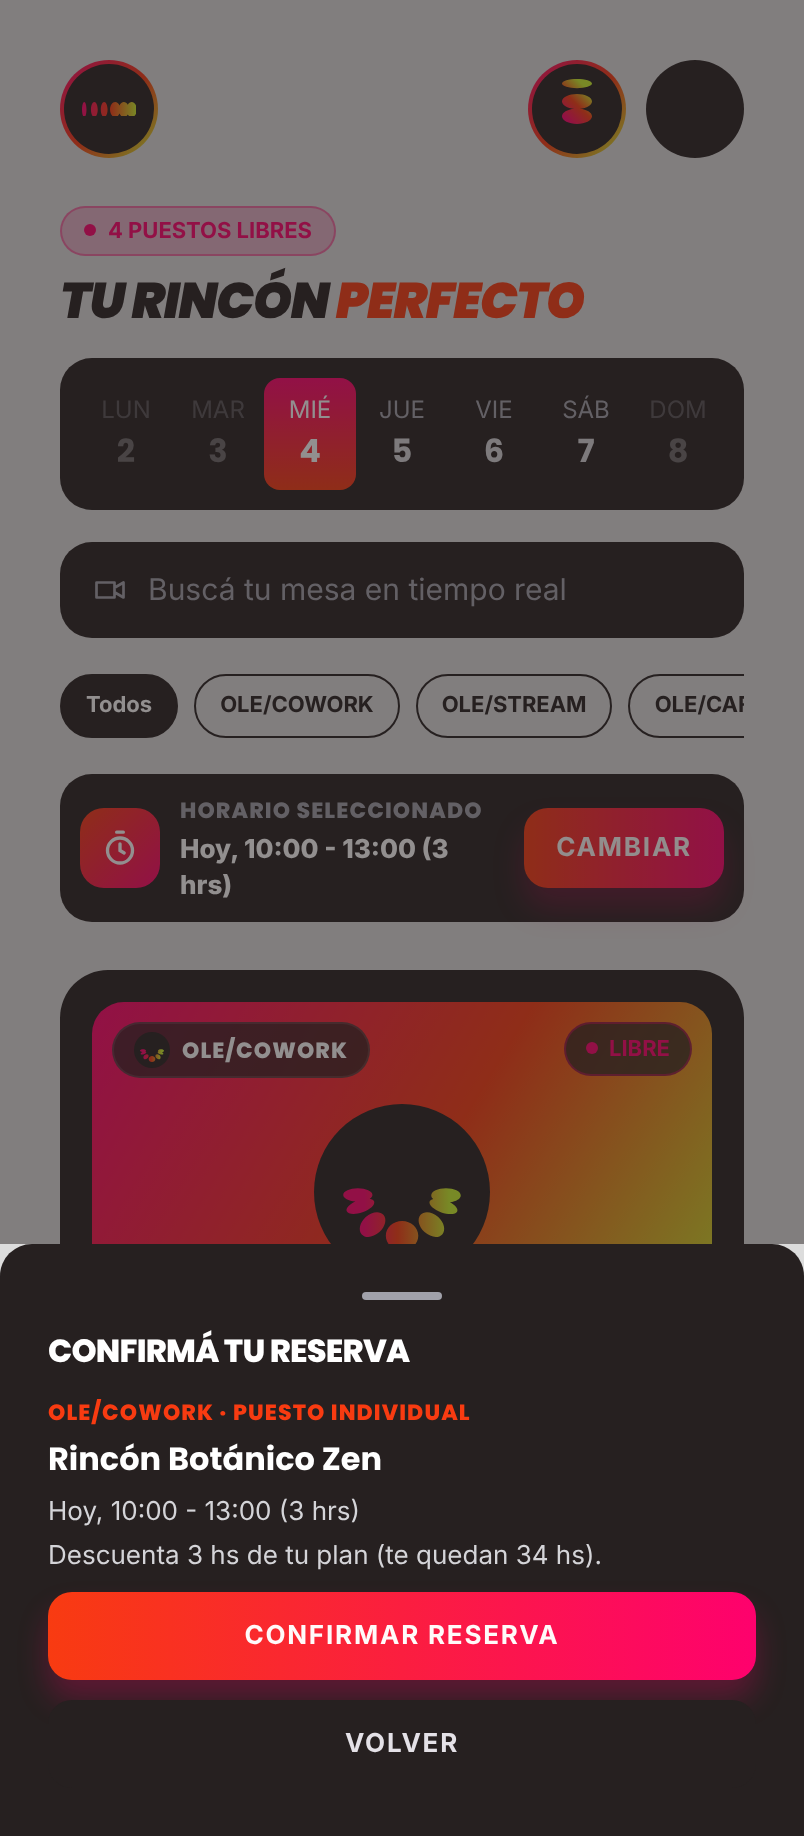
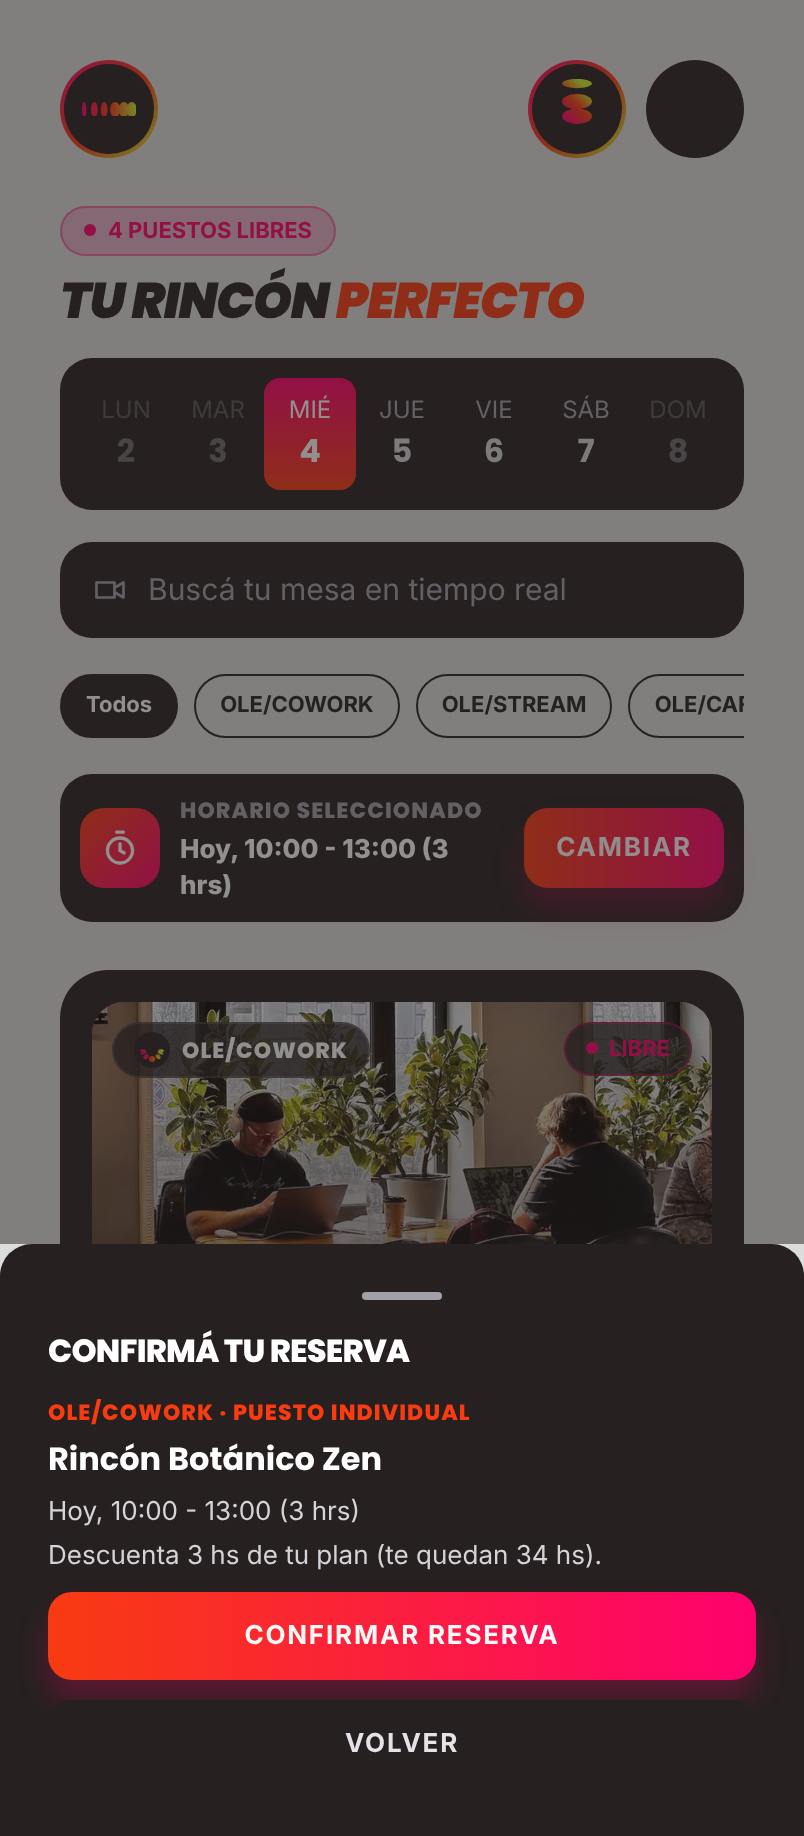
Etapa 8 — Espacios (revisión 1: fotos de los espacios)
Fotos reales provistas por la responsable para Rincón Botánico Zen, Mesa
Comunitaria y Sala Acústica, con sombra inferior para leer las etiquetas.

Claude-Session: https://claude.ai/code/session_0116dvceVdoahqryjdDfmCBu

Changed region(s): [[0.0933, 0.5278, 0.9017, 0.683]]

diff --git a/src/components/espacios/TarjetaEspacio.tsx b/src/components/espacios/TarjetaEspacio.tsx
@@ -1,5 +1,5 @@
 import { LinearGradient } from 'expo-linear-gradient';
-import { Pressable, StyleSheet, View } from 'react-native';
+import { Image, Pressable, StyleSheet, View } from 'react-native';
 
 import { IconoUbicacion } from '@/components/iconos/Iconos';
 import { IconoSubmarca } from '@/components/marca/IconoSubmarca';
@@ -30,8 +30,8 @@ function textoEstado(estado: EstadoEspacio): string {
   return `Ocupado hasta ${estado.hasta}`;
 }
 
-// Tarjeta de espacio (Figma: ESPACIOS). PROVISIONAL: sin fotos reales de los espacios, la imagen es el
-// degradado de marca con el ícono del servicio (como la miniatura de la reserva del Home).
+// Tarjeta de espacio (Figma: ESPACIOS). Muestra la foto del espacio; si no tiene, el degradado de marca
+// con el ícono del servicio (como la miniatura de la reserva del Home).
 export function TarjetaEspacio({ espacio: datos, estado, accion }: Props) {
   const estiloEstado = ESTILO_ESTADO[estado.tipo];
   return (
@@ -43,7 +43,25 @@ export function TarjetaEspacio({ espacio: datos, estado, accion }: Props) {
         end={{ x: 1, y: 1 }}
         style={styles.imagen}
       >
-        <IconoSubmarca submarca={datos.servicio} tamano={88} conAro={false} />
+        {datos.foto ? (
+          <>
+            <Image
+              source={datos.foto}
+              resizeMode="cover"
+              accessibilityIgnoresInvertColors
+              style={styles.foto}
+            />
+            {/* Sombra abajo para que las etiquetas se lean sobre cualquier foto. */}
+            <LinearGradient
+              colors={[colores.transparente, colores.veloFoto]}
+              start={{ x: 0.5, y: 0.45 }}
+              end={{ x: 0.5, y: 1 }}
+              style={StyleSheet.absoluteFill}
+            />
+          </>
+        ) : (
+          <IconoSubmarca submarca={datos.servicio} tamano={88} conAro={false} />
+        )}
         <View style={[styles.pastilla, styles.arribaIzquierda]}>
           <IconoSubmarca submarca={datos.servicio} tamano={18} conAro={false} />
           <Texto variante="categoria" color="textoSobreOscuro">
@@ -156,6 +174,8 @@ const styles = StyleSheet.create({
     borderColor: colores.divisorSobreOscuro,
     backgroundColor: colores.fondoPastillaFoto,
   },
+  // Tamaño explícito: en la web, absoluteFill solo no escala la imagen.
+  foto: { position: 'absolute', top: 0, left: 0, width: '100%', height: '100%' },
   arribaIzquierda: { position: 'absolute', top: espacio.l, left: espacio.l },
   arribaDerecha: { position: 'absolute', top: espacio.l, right: espacio.l },
   punto: { width: 6, height: 6, borderRadius: radios.pastilla },

diff --git a/data/mock/espaciosOlegario.ts b/data/mock/espaciosOlegario.ts
@@ -2,6 +2,7 @@ import type { Espacio } from '../../src/models/espacio';
 
 // DATOS DE PRUEBA (no reales): espacios y ocupación tomados de Figma (pantalla ESPACIOS), hasta el
 // servidor (Etapa 13). Las ocupaciones son relativas al día en que se abre la app.
+// Fotos provistas por la responsable (Drive, 2026-11-04); la Mesa con Luz Natural todavía no tiene.
 export function espaciosDePrueba(hoy: Date = new Date()): Espacio[] {
   const a = (hora: number, minuto = 0, dias = 0) => {
     const fecha = new Date(hoy);
@@ -12,6 +13,7 @@ export function espaciosDePrueba(hoy: Date = new Date()): Espacio[] {
   return [
     {
       id: 'rincon-botanico-zen',
+      foto: require('../../assets/imagenes/espacios/rincon-botanico-zen.jpg'),
       servicio: 'cowork',
       nombre: 'Rincón Botánico Zen',
       tipo: 'Puesto individual',
@@ -34,6 +36,7 @@ export function espaciosDePrueba(hoy: Date = new Date()): Espacio[] {
     },
     {
       id: 'mesa-comunitaria-cafe',
+      foto: require('../../assets/imagenes/espacios/mesa-comunitaria-cafe.jpg'),
       servicio: 'cafe',
       nombre: 'Mesa Comunitaria Barra Cafetería',
       tipo: 'Mesa compartida',
@@ -46,6 +49,7 @@ export function espaciosDePrueba(hoy: Date = new Date()): Espacio[] {
     },
     {
       id: 'sala-acustica-focus',
+      foto: require('../../assets/imagenes/espacios/sala-acustica-focus.jpg'),
       servicio: 'stream',
       nombre: 'Sala Acústica Focus',
       tipo: 'Sala de stream y llamadas',

diff --git a/src/models/espacio.ts b/src/models/espacio.ts
@@ -1,3 +1,5 @@
+import type { ImageSourcePropType } from 'react-native';
+
 import type { Submarca } from '@/components/marca/IconoSubmarca';
 
 export type Ocupacion = { inicio: Date; fin: Date };
@@ -11,6 +13,8 @@ export type Espacio = {
   ambiente: string[];
   equipamiento: string[];
   etiqueta?: string;
+  // Foto del espacio; sin foto, la tarjeta muestra el degradado de marca.
+  foto?: ImageSourcePropType;
   // Cantidad de lugares (puestos) que se pueden reservar a la vez.
   capacidad: number;
   ocupaciones: Ocupacion[];

diff --git a/src/theme/colores.ts b/src/theme/colores.ts
@@ -49,6 +49,7 @@ export const colores = {
 
   // Pastillas sobre la foto de los espacios y bordes de estado
   fondoPastillaFoto: 'rgba(38, 32, 32, 0.78)',
+  veloFoto: 'rgba(38, 32, 32, 0.55)',
   bordeNaranja: 'rgba(248, 59, 17, 0.6)',
   bordeLima: 'rgba(202, 242, 44, 0.6)',
 

diff --git a/docs/DECISIONES_Y_PENDIENTES.md b/docs/DECISIONES_Y_PENDIENTES.md
@@ -51,7 +51,7 @@
 | D-45 | Home sin reserva: tarjeta que invita a reservar (miembro) o a explorar los espacios (invitado, que no puede reservar).                                                                                                                                                                                                                                                                 | Estado no diseñado en Figma.                                                                                       | —                                                                       | 2026-11-03 | Bajo    | Provisional, a revisar                                                              |
 | D-46 | "Ver detalles" y "Cómo llegar" abren un detalle de reserva provisorio (cuándo y dónde); check-in, PIN y mapa en la Etapa 9.                                                                                                                                                                                                                                                            | No hay diseño (P-31).                                                                                              | Botones sin acción.                                                     | 2026-11-03 | Bajo    | Provisional                                                                         |
 | D-47 | Reglas de reserva: horario libre las 24 hs en pasos de 30 min, hasta 3 días de anticipación, cancelación hasta 30 min antes, toda reserva descuenta horas del plan (80 hs, 42 usadas: dato de prueba).                                                                                                                                                                                 | Decisión de la responsable.                                                                                        | —                                                                       | 2026-11-04 | Medio   | Aplicada                                                                            |
-| D-48 | Espacios sin fotos reales: la imagen de cada tarjeta es el degradado de marca con el ícono del servicio.                                                                                                                                                                                                                                                                               | No hay fotos de los espacios.                                                                                      | Usar las fotos de Figma.                                                | 2026-11-04 | Bajo    | Provisional, a revisar                                                              |
+| D-48 | Fotos de los espacios provistas por la responsable (Drive, 2026-11-04), recortadas en horizontal y optimizadas en `assets/imagenes/espacios/`. La Mesa con Luz Natural no tiene foto y muestra el degradado de marca con el ícono del servicio.                                                                                                                                        | Revisión de la Etapa 8.                                                                                            | —                                                                       | 2026-11-04 | Bajo    | Aplicada                                                                            |
 | D-49 | Se quitan "Gratis" y "1H/DÍA INC." de Figma: el pie muestra cuántas horas descuenta. El botón de la tarjeta de horario dice "CAMBIAR" (abre el selector) en lugar de "CONFIRMAR". Los puntos de color bajo los días no se muestran (sin regla definida).                                                                                                                               | Coherencia con la regla "toda reserva descuenta horas".                                                            | Dejar como Figma.                                                       | 2026-11-04 | Bajo    | Aplicada, a revisar                                                                 |
 | D-50 | Filtros por servicio (Todos, COWORK, STREAM, CAFÉ, NETWORK) bajo el buscador; espacios ocupados ofrecen "Usar ese horario"; confirmación y selector de horario en panel inferior con el estilo de la app; "PERFECTO" en naranja sólido como D-41.                                                                                                                                      | Pedido de filtrar desde el Home; pantallas no diseñadas en Figma.                                                  | —                                                                       | 2026-11-04 | Bajo    | Provisional, a revisar                                                              |
 
@@ -118,7 +118,7 @@
 
 - **P-42** ¿"CREATIVO" debe llevar el degradado de Figma? Requiere instalar `@react-native-masked-view/masked-view` (gratuita).
 - **P-43** ¿Te parecen bien las correcciones de texto de D-42?
-- **P-44** ¿Hay fotos reales de los espacios (rincón botánico, mesa comunitaria, sala acústica…)? Hoy se usa el degradado (D-48).
+- **P-44** ¿Hay foto de la Mesa con Luz Natural? Hoy usa el degradado (D-48).
 - **P-45** ¿Qué indican los puntos de color bajo los días en Figma (ESPACIOS)?
 
 ### Grupo 5 — Recursos que faltan

diff --git a/docs/PLAN_DE_TRABAJO.md b/docs/PLAN_DE_TRABAJO.md
@@ -100,8 +100,8 @@
 
 - **Estado:** `Completada (pendiente de autorización)`, 2026-11-04
 - **Objetivo:** P08: explorar y reservar (simulado).
-- **Resultado:** ✅ chip "N PUESTOS LIBRES" y "TU RINCÓN PERFECTO" · ✅ selector de semana (solo hoy y 3 días más) · ✅ buscador (sin importar tildes) · ✅ filtro por servicio; desde el Home se abre filtrado · ✅ horario libre las 24 hs en pasos de 30 min · ✅ tarjetas con estado (libre / N libres / ocupado hasta) · ✅ "Usar ese horario" en espacios ocupados · ✅ confirmación con horas del plan · ✅ reservas guardadas en el teléfono, visibles en el Home · ✅ cancelar hasta 30 min antes · ✅ el invitado mira pero no reserva.
-- **Archivos:** `src/app/(tabs)/espacios.tsx`, `src/app/reserva/[id].tsx`, `src/components/espacios/`, `src/components/ui/PanelInferior.tsx`, `src/estado/reservas.tsx`, `src/models/espacio.ts`, `src/utils/fechas.ts`, `src/utils/disponibilidad.ts`, `src/utils/espacios.ts`, `data/mock/espaciosOlegario.ts`, `tests/espacios.test.tsx`.
+- **Resultado:** ✅ chip "N PUESTOS LIBRES" y "TU RINCÓN PERFECTO" · ✅ selector de semana (solo hoy y 3 días más) · ✅ buscador (sin importar tildes) · ✅ filtro por servicio; desde el Home se abre filtrado · ✅ horario libre las 24 hs en pasos de 30 min · ✅ tarjetas con estado (libre / N libres / ocupado hasta) · ✅ "Usar ese horario" en espacios ocupados · ✅ confirmación con horas del plan · ✅ reservas guardadas en el teléfono, visibles en el Home · ✅ cancelar hasta 30 min antes · ✅ el invitado mira pero no reserva. · ✅ Revisión 1: fotos reales de los espacios provistas por la responsable.
+- **Archivos:** `src/app/(tabs)/espacios.tsx`, `src/app/reserva/[id].tsx`, `src/components/espacios/`, `src/components/ui/PanelInferior.tsx`, `src/estado/reservas.tsx`, `src/models/espacio.ts`, `src/utils/fechas.ts`, `src/utils/disponibilidad.ts`, `src/utils/espacios.ts`, `data/mock/espaciosOlegario.ts`, `assets/imagenes/espacios/`, `tests/espacios.test.tsx`.
 - **Criterios de aceptación:** ✅ no se puede reservar algo ocupado · ✅ la reserva aparece en el Home (en la Agenda, Etapa 9) · ✅ coincide con la captura salvo D-47 a D-50.
 - **Pruebas:** 75 pruebas automáticas (fechas, disponibilidad, reglas, filtro, reserva, filtro desde el Home, invitado, cancelación) y recorrido web con capturas en `docs/capturas-app/etapa-8/`.
 

diff --git a/docs/ESTADO_DEL_PROYECTO.md b/docs/ESTADO_DEL_PROYECTO.md
@@ -46,7 +46,7 @@
 
 - Etapa 6: bienvenidas (collage interactivo), acceso, registro e inicio de sesión con validaciones; 45 pruebas. Capturas en `docs/capturas-app/etapa-6/`.
 - Etapa 7: Home con saludo, banner, reserva actual (en curso / próxima / sin reserva / invitado) y servicios; 60 pruebas. Capturas en `docs/capturas-app/etapa-7/`.
-- Etapa 8: Espacios con semana, buscador, filtro por servicio, horario, tarjetas con estado, reserva y cancelación simuladas; 75 pruebas. Capturas en `docs/capturas-app/etapa-8/`.
+- Etapa 8: Espacios con semana, buscador, filtro por servicio, horario, tarjetas con estado, reserva y cancelación simuladas; 75 pruebas. Capturas en `docs/capturas-app/etapa-8/`. Revisión 1: fotos reales de los espacios (Drive); "CAMBIAR" y el pie con horas aprobados.
 
 ## Pendientes abiertos
 
@@ -58,9 +58,9 @@
 - P-41: ¿la cookie de la promo es de avena o de chocolate?
 - P-42: ¿"CREATIVO" con degradado (requiere una dependencia)?
 - P-43: ¿aprueba las correcciones de texto de D-42?
-- P-44: ¿hay fotos reales de los espacios?
+- P-44: ¿hay foto de la Mesa con Luz Natural?
 - P-45: ¿qué indican los puntos de color bajo los días?
 
 ## Último informe de cierre
 
-2026-11-04: Etapa 8, entregado en la conversación.
+2026-11-04: Etapa 8 (con la revisión 1), entregado en la conversación.
